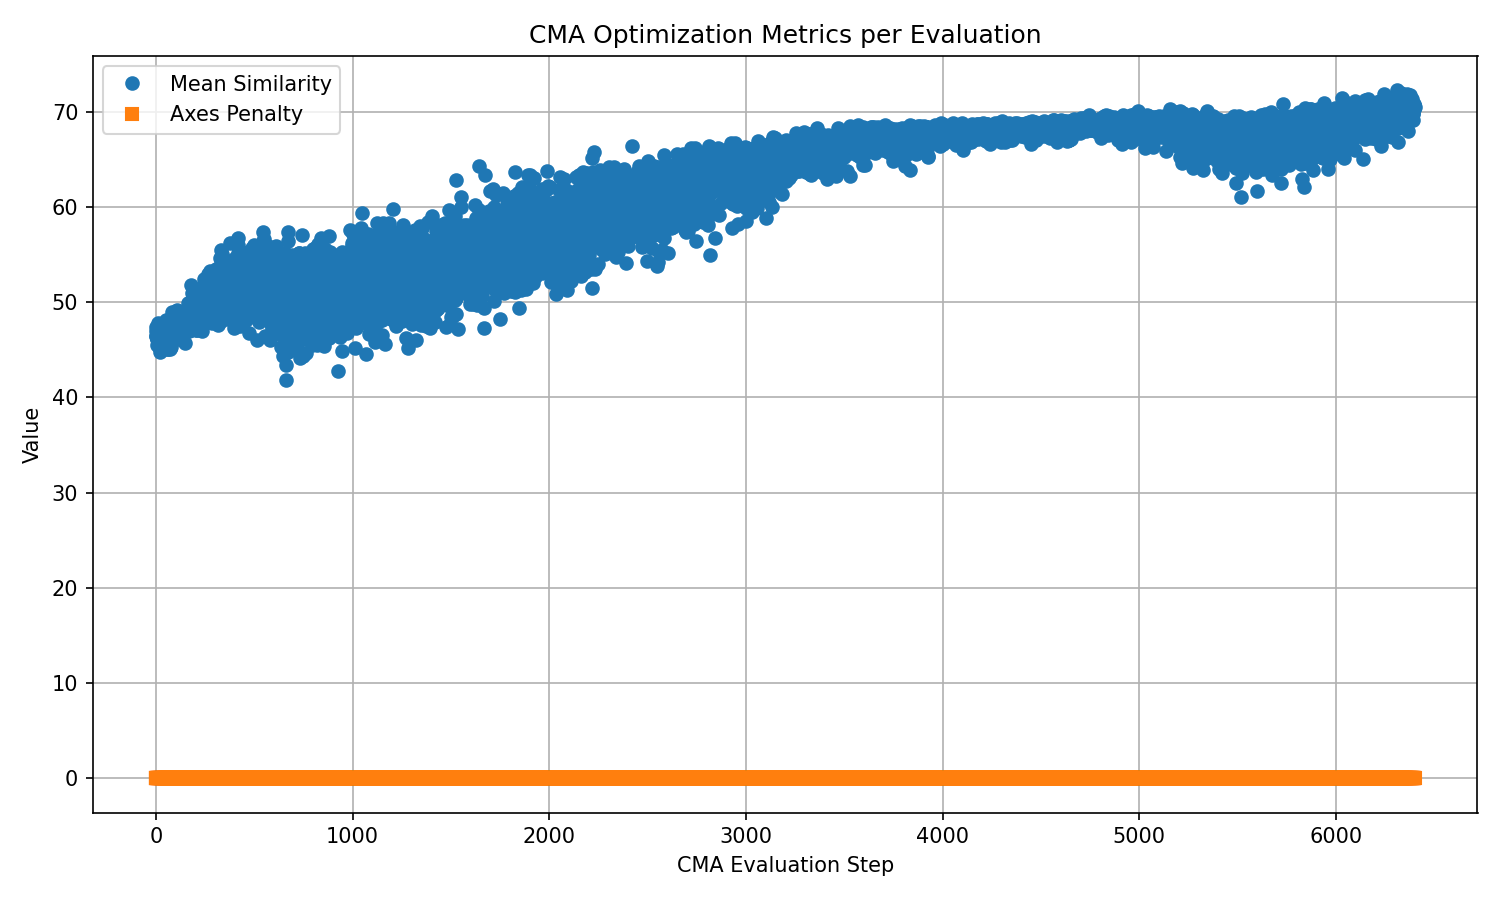
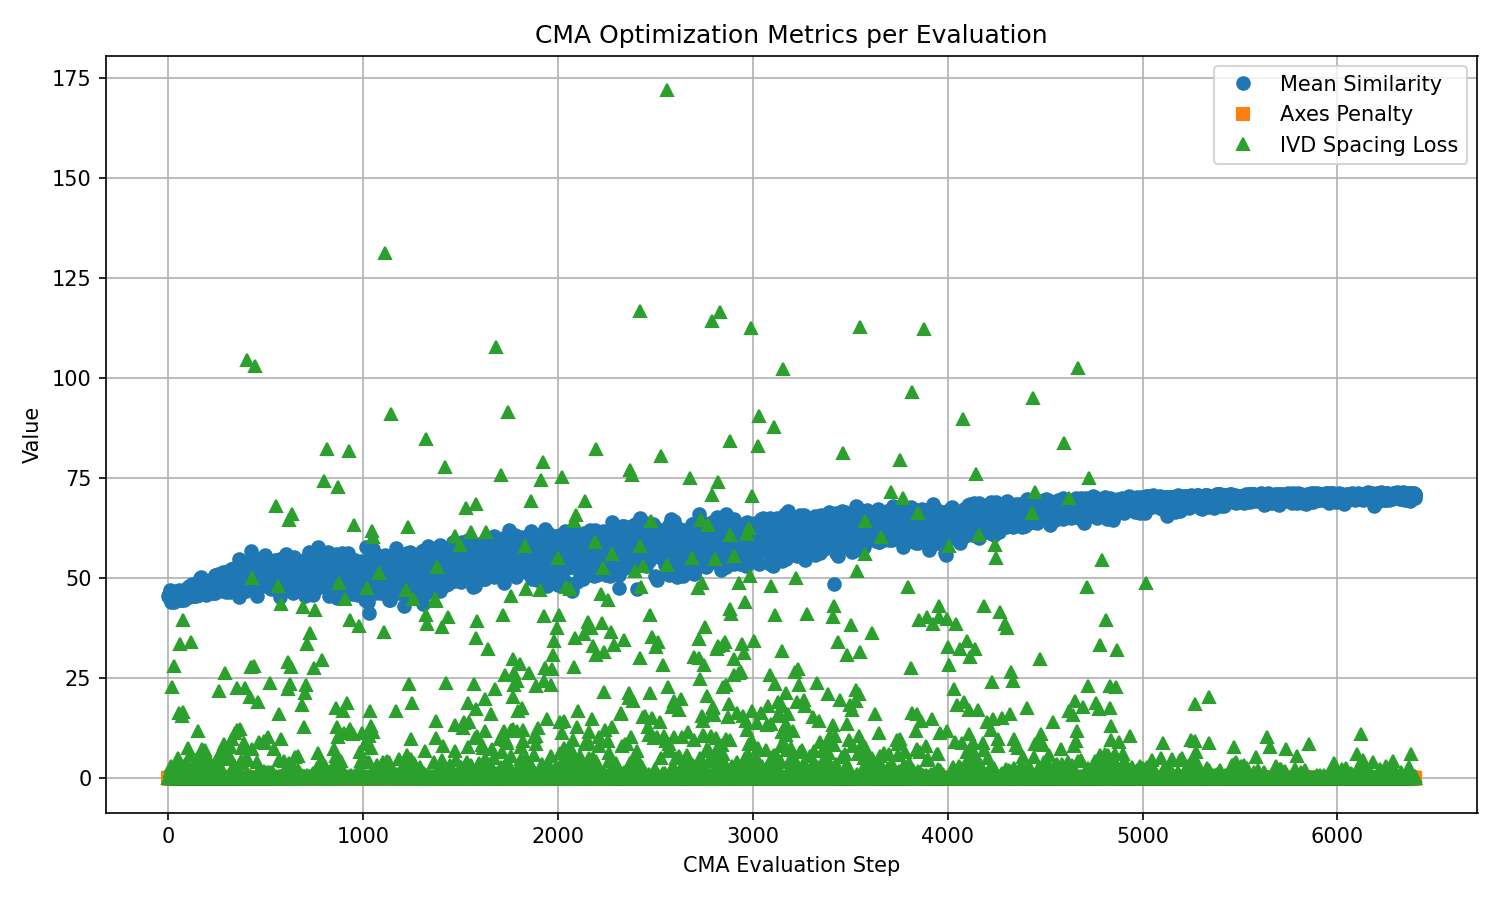
FIX: IVD loss

diff --git a/utils/helpers.py b/utils/helpers.py
@@ -7,6 +7,83 @@ from scipy.ndimage import gaussian_filter
 import SimpleITK as sitk
 
 
+def compute_ivd_collision_loss(pairings, transforms_list, case_names):
+    # IVD collision loss tuned for your specific anatomy
+    total_loss = 0.0
+    metrics = {}
+    
+    for i in range(len(case_names) - 1):
+        vert1 = case_names[i]
+        vert2 = case_names[i + 1]
+        pair_key = (i + 1, i + 2)
+        
+        if pair_key not in pairings:
+            print(f"SKIPPED - {pair_key} not found in pairings")
+            continue
+            
+        # point pairs for this IVD
+        pts1 = pairings[pair_key]['L_i'] 
+        pts2 = pairings[pair_key]['L_j']
+        initial_distances = pairings[pair_key]['d0']
+        
+        # transform points to fixed space
+        tx1 = transforms_list[i]
+        tx2 = transforms_list[i + 1]
+        
+        pts1_transformed = np.array([tx1.TransformPoint(p.tolist()) for p in pts1])
+        pts2_transformed = np.array([tx2.TransformPoint(p.tolist()) for p in pts2])
+        
+        # compute current pairwise distances
+        current_distances = np.linalg.norm(pts1_transformed - pts2_transformed, axis=1)
+
+        # LOSS COMPONENT 1: COLLISION AVOIDANCE (HARD)
+        collision_threshold = 1.5  # mm - hard collision boundary
+        violations = collision_threshold - current_distances
+        violations = np.maximum(0, violations)
+        
+        # exp penalty - gets severe as penetration deepens
+        collision_penalty = np.sum(np.exp(violations) - 1.0)
+        n_collisions = np.sum(current_distances < collision_threshold)
+        
+        # LOSS COMPONENT 2: PRESERVE MEAN SPACING (SOFT)
+        initial_mean = np.mean(initial_distances)
+        current_mean = np.mean(current_distances)
+        
+        # tolerance, ~2x std as natural variation
+        tolerance = 1.5  # mm - allows curvature/natural compression
+        mean_deviation = abs(current_mean - initial_mean) - tolerance
+        
+        if mean_deviation > 0:
+            mean_spacing_penalty = mean_deviation ** 2
+        else:
+            mean_spacing_penalty = 0.0
+
+        w_collision = 1.0   # CRITICAL - prevent collisions, mayeb try 2?
+        w_mean_spacing = 0.01   # Moderate - maintain anatomy
+        
+        pair_loss = (
+            w_collision * collision_penalty +
+            w_mean_spacing * mean_spacing_penalty
+        )
+        
+        total_loss += pair_loss
+        
+        # store metrics
+        metrics[pair_key] = {
+            'current_mean': float(current_mean),
+            'initial_mean': float(initial_mean),
+            'current_min': float(np.min(current_distances)),
+            'current_max': float(np.max(current_distances)),
+            'current_std': float(np.std(current_distances)),
+            'n_collisions': int(n_collisions),
+            'collision_loss': float(w_collision * collision_penalty),
+            'mean_spacing_loss': float(w_mean_spacing * mean_spacing_penalty),
+            'total_loss': float(pair_loss)
+        }
+    
+    return total_loss, metrics
+
+
 def compute_inter_vertebral_displacement_penalty(moved_centroids, case_centroids, case_axes, transforms_list, margins):
 
     # constraint relative displacement between neighboring vertebrae along anatomical axes.
